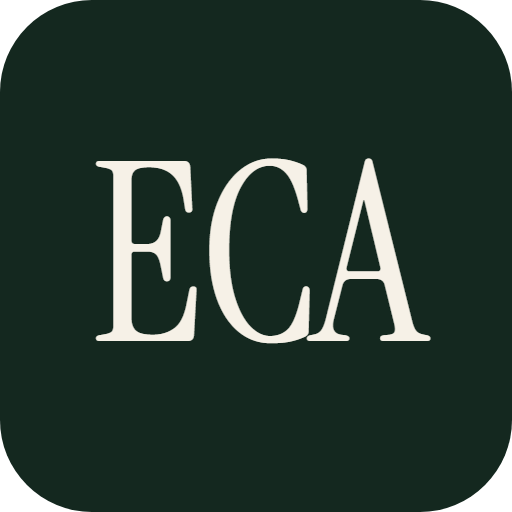
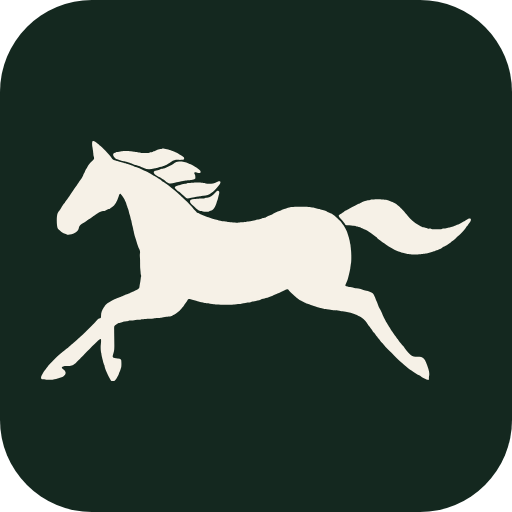
Horse brand mark replaces the ECA wordmark
The horse from the Canva logo was an embedded 694px bitmap, so it is
traced to a single vector path in brand-mark.tsx (currentColor).
Header and footer show horse + "Equine Professionals"; below 360px the
horse stands alone so "Log in" stays on one line.

scripts/build-brand.mjs writes fixed-colour SVG/PNG files to
public/brand/ and rebuilds the favicon and apple icon, replacing
build-icons.mjs.

Changed region(s): [[0.0625, 0.2812, 0.9062, 0.75], [0.9062, 0.4062, 0.9375, 0.4375]]

diff --git a/src/components/brand-mark.tsx b/src/components/brand-mark.tsx
@@ -1,0 +1,42 @@
+/**
+ * The galloping horse from the Equine Professionals Australia logo, without
+ * the lettering. Traced to a single vector path from the Canva artwork (the
+ * horse there is an embedded 694px bitmap), so it stays sharp at any size.
+ *
+ * Fills with `currentColor`, so it takes its lockup's tone: cream over a
+ * photograph or on ink, ink on cream, the section accent where one applies.
+ * Fixed-colour files for places outside the app (email, print, social) are
+ * in `public/brand/`, built by `scripts/build-brand.mjs` from this path.
+ *
+ * Decorative by default. Give it a `title` only when it stands alone with
+ * no text beside it.
+ */
+export const BRAND_MARK_VIEWBOX = "66 26 2686 1502";
+export const BRAND_MARK_RATIO = 2686 / 1502;
+export const BRAND_MARK_PATH =
+  "M 388 28C385 31 384 50 387 63C388 66 389 75 390 82C391 89 392 96 392 99C393 101 393 105 393 108C393 111 394 118 396 124C399 137 399 137 384 152C372 163 363 174 354 191C352 194 349 200 346 204C344 207 342 213 341 215C340 217 339 222 337 224C335 226 333 232 331 236C328 246 322 257 319 260C317 263 303 282 290 302C286 308 280 316 276 321C268 333 253 355 245 368C241 373 237 380 234 383C232 386 226 394 221 401C217 408 212 416 210 417C206 422 197 436 191 446C188 451 184 456 183 458C180 460 172 472 170 478C162 495 163 558 171 573C175 579 192 594 199 597C208 602 226 609 230 611C238 614 265 609 273 603C276 601 281 598 284 596C295 589 301 579 303 566C305 555 314 547 336 535C346 529 355 522 360 518C362 516 367 513 371 511C375 509 381 505 384 502C387 500 393 495 398 493C402 490 410 485 415 481C424 475 425 474 438 468C444 466 449 464 454 464C461 463 463 462 472 458C479 454 484 452 488 451C492 450 496 449 498 447C501 445 505 442 509 440C528 427 541 406 551 373C556 357 558 354 562 356C566 358 587 387 589 394C590 397 593 403 595 407C597 412 600 420 601 425C603 429 606 440 609 448C612 455 615 465 615 470C616 475 618 481 619 484C620 487 622 494 624 500C625 505 627 514 629 520C631 526 632 534 633 538C634 541 635 549 637 555C639 561 640 568 641 571C641 574 643 583 645 590C646 597 648 606 649 608C649 611 650 615 651 616C652 620 662 650 671 680C672 684 675 692 678 698C685 712 686 716 684 728C683 736 683 741 684 753C685 761 685 778 685 791C685 803 685 818 686 824C687 830 687 839 688 845C688 850 689 858 690 862C692 869 692 869 691 874C690 876 689 881 689 884C689 887 688 894 687 900C685 912 682 928 681 936C680 946 678 949 655 960C648 964 639 968 635 969C631 970 626 973 621 976C615 980 614 981 608 981C604 982 601 982 598 985C595 986 590 988 587 989C584 990 575 994 568 997C560 1001 552 1004 550 1005C546 1005 526 1014 510 1022C488 1033 470 1047 464 1057C464 1059 461 1063 458 1066C447 1081 441 1099 441 1117C441 1129 440 1132 435 1133C426 1134 419 1139 411 1151C406 1158 327 1238 319 1243C316 1245 311 1250 307 1254C293 1266 284 1275 281 1277C279 1278 273 1284 268 1288C262 1293 254 1300 250 1303C245 1307 240 1311 239 1313C237 1315 233 1319 230 1321C226 1323 220 1327 216 1331C211 1335 205 1340 202 1343C199 1345 196 1348 195 1349C193 1350 189 1353 185 1356C176 1362 118 1420 111 1430C109 1433 105 1438 103 1441C101 1443 98 1447 97 1449C96 1451 93 1455 91 1457C88 1460 85 1465 83 1468C81 1472 78 1477 76 1480C62 1502 63 1515 78 1514C84 1514 88 1514 92 1516C103 1519 144 1517 160 1512C167 1510 174 1508 175 1508C178 1508 201 1500 205 1497C225 1484 225 1464 204 1451C187 1440 197 1432 228 1432C255 1432 262 1429 282 1414C286 1411 290 1406 292 1404C294 1401 297 1399 297 1399C298 1398 301 1395 305 1391C308 1387 320 1374 333 1362C345 1350 372 1323 394 1301C445 1249 444 1249 439 1304C438 1317 439 1341 443 1354C443 1357 444 1363 445 1368C446 1372 448 1383 451 1392C453 1401 456 1411 457 1415C458 1419 459 1424 461 1426C462 1429 464 1433 464 1437C471 1462 499 1521 507 1526C514 1530 523 1528 529 1521C536 1514 553 1483 553 1478C553 1477 554 1474 556 1471C559 1466 562 1456 567 1440C569 1431 569 1397 566 1393C564 1389 559 1386 555 1386C553 1385 547 1384 541 1384C535 1383 528 1382 526 1381C512 1380 511 1376 518 1354C525 1333 525 1330 523 1219C523 1177 522 1182 536 1172C547 1164 550 1163 554 1163C556 1163 564 1161 572 1158C583 1154 589 1153 597 1152C602 1152 609 1150 611 1150C614 1149 619 1148 624 1148C629 1148 636 1147 640 1147C648 1145 665 1143 674 1143C678 1143 684 1143 687 1142C690 1141 697 1140 702 1140C707 1139 715 1138 719 1138C723 1137 732 1136 743 1136C754 1136 763 1135 769 1134C773 1134 784 1133 793 1132C803 1132 812 1131 817 1130C837 1126 846 1124 856 1124C859 1124 865 1123 868 1123C870 1122 875 1121 877 1120C879 1120 884 1118 886 1117C889 1115 894 1113 897 1112C909 1107 931 1089 941 1076C943 1072 948 1067 950 1064C953 1061 957 1056 959 1053C962 1049 967 1042 971 1037C975 1032 979 1026 980 1023C986 1012 992 1011 1011 1017C1018 1019 1028 1022 1035 1024C1041 1026 1047 1027 1050 1028C1052 1029 1057 1030 1061 1031C1064 1031 1069 1033 1072 1033C1074 1034 1079 1035 1083 1036C1086 1037 1091 1038 1094 1038C1096 1039 1100 1040 1103 1040C1107 1040 1115 1041 1122 1042C1130 1043 1140 1044 1146 1045C1152 1046 1161 1047 1166 1047C1182 1049 1267 1049 1279 1047C1284 1046 1294 1044 1302 1044C1309 1043 1317 1043 1319 1042C1321 1041 1327 1041 1333 1040C1339 1040 1345 1039 1350 1037C1354 1036 1359 1035 1363 1035C1366 1035 1371 1034 1375 1033C1378 1031 1386 1030 1391 1029C1406 1026 1428 1020 1437 1017C1442 1015 1449 1013 1454 1012C1459 1011 1466 1009 1470 1007C1473 1006 1480 1004 1484 1003C1503 997 1509 995 1513 993C1515 991 1520 989 1522 988C1525 987 1532 984 1537 982C1542 979 1546 977 1547 977C1549 977 1571 967 1588 958C1606 949 1609 949 1614 959C1616 963 1650 996 1656 999C1658 1001 1663 1005 1667 1008C1671 1011 1676 1015 1679 1017C1681 1018 1687 1021 1692 1024C1701 1030 1724 1041 1726 1041C1726 1041 1733 1043 1741 1046C1757 1053 1767 1056 1781 1060C1786 1062 1793 1064 1796 1065C1800 1067 1809 1069 1820 1071C1823 1072 1828 1073 1832 1074C1838 1076 1843 1077 1865 1079C1871 1080 1878 1081 1882 1082C1885 1083 1894 1084 1903 1084C1916 1085 1924 1086 1943 1090C1947 1090 1954 1091 1959 1091C1970 1092 1998 1098 2014 1103C2020 1106 2027 1108 2030 1109C2033 1109 2038 1112 2042 1114C2046 1116 2053 1120 2058 1122C2074 1131 2091 1146 2102 1163C2105 1168 2110 1175 2112 1178C2115 1180 2118 1185 2120 1188C2122 1191 2126 1197 2129 1201C2132 1204 2136 1210 2138 1214C2141 1218 2144 1222 2147 1224C2149 1226 2152 1231 2155 1235C2157 1238 2161 1243 2163 1246C2165 1248 2168 1251 2169 1253C2170 1255 2174 1259 2176 1262C2179 1265 2183 1270 2185 1273C2187 1276 2192 1281 2196 1286C2200 1290 2205 1296 2208 1300C2210 1303 2222 1315 2234 1328C2246 1340 2263 1356 2270 1364C2292 1386 2308 1401 2316 1408C2320 1411 2327 1416 2330 1420C2357 1444 2360 1446 2410 1480C2416 1484 2424 1488 2428 1490C2432 1491 2436 1494 2440 1497C2447 1504 2476 1518 2483 1518C2489 1519 2490 1516 2489 1508C2489 1503 2489 1500 2490 1495C2493 1484 2492 1468 2486 1450C2464 1380 2457 1373 2416 1373C2382 1373 2374 1367 2336 1317C2334 1314 2329 1307 2325 1304C2321 1300 2317 1295 2316 1293C2315 1291 2312 1287 2309 1285C2307 1282 2303 1278 2301 1274C2299 1271 2296 1267 2295 1265C2293 1263 2290 1259 2288 1256C2286 1253 2284 1249 2282 1247C2274 1237 2263 1222 2261 1217C2259 1215 2257 1211 2255 1209C2253 1206 2251 1202 2249 1200C2248 1197 2244 1191 2240 1186C2237 1181 2233 1174 2231 1171C2230 1168 2227 1163 2225 1160C2221 1154 2209 1131 2201 1114C2193 1094 2189 1086 2182 1074C2178 1067 2174 1057 2172 1052C2164 1031 2162 1026 2160 1023C2159 1021 2158 1017 2157 1014C2154 1003 2144 983 2138 977C2131 972 2108 962 2098 961C2094 961 2088 959 2085 958C2076 954 2052 948 2035 946C2029 945 2019 943 2013 941C2007 940 1999 938 1996 938C1990 937 1972 932 1969 931C1966 929 1967 926 1972 915C1981 893 1983 887 1985 878C1989 864 1995 840 1996 832C1997 828 1998 823 1998 821C1998 818 1999 812 2000 806C2001 799 2002 791 2003 787C2005 775 2005 717 2002 705C2002 700 2001 691 2000 685C2000 679 1999 672 1998 671C1998 670 1997 666 1996 662C1996 659 1994 651 1993 645C1991 638 1989 630 1988 626C1987 618 1977 590 1973 583C1968 571 1958 554 1954 550C1952 547 1949 543 1946 539C1942 532 1910 501 1898 492C1889 484 1878 478 1864 473C1859 471 1852 467 1849 465C1845 463 1840 461 1839 460C1837 460 1828 458 1819 455C1811 452 1800 450 1796 449C1793 448 1784 446 1777 444C1769 442 1763 441 1759 441C1755 441 1749 440 1744 439C1731 436 1637 437 1623 440C1607 443 1576 454 1567 458C1562 461 1557 463 1555 464C1544 467 1518 480 1510 485C1508 486 1504 488 1501 488C1493 490 1476 498 1471 502C1468 505 1465 506 1460 506C1457 507 1449 509 1442 511C1436 513 1426 516 1421 517C1415 518 1408 520 1404 521C1400 523 1393 524 1388 524C1384 525 1378 526 1375 527C1373 527 1367 528 1363 529C1358 529 1353 530 1351 531C1349 532 1339 532 1329 533C1314 533 1308 534 1303 535C1296 537 1269 537 1259 534C1255 534 1250 533 1247 533C1244 533 1238 532 1233 532C1228 531 1217 529 1210 528C1195 526 1177 522 1169 519C1166 518 1160 517 1156 516C1153 516 1147 514 1145 513C1143 513 1137 511 1133 510C1128 509 1121 506 1116 504C1111 503 1106 501 1105 501C1103 501 1100 500 1096 498C1093 496 1086 493 1081 491C1065 485 1057 482 1052 478C1049 476 1046 475 1045 475C1042 475 1038 472 1036 468C1034 466 1032 463 1030 461C1020 453 1017 450 1012 442C1006 432 969 395 953 382C948 378 940 371 937 367C926 356 911 342 896 330C888 324 879 318 876 315C856 299 848 293 832 282C826 278 819 274 818 272C816 271 811 267 807 265C803 262 795 257 791 254C786 251 779 247 775 245C770 243 765 240 761 237C758 235 750 230 742 226C735 222 727 218 725 217C708 208 672 192 658 188C654 187 649 185 645 183C638 180 595 165 591 165C590 165 583 163 575 160C568 158 557 155 552 154C546 152 539 150 536 149C534 148 529 147 526 146C518 144 514 141 504 127C494 111 445 61 431 52C429 50 423 45 419 42C405 28 394 23 388 28M822 74C822 75 817 75 812 76C800 77 796 79 787 84C783 86 778 88 776 89C774 90 768 92 763 94C759 95 754 97 752 97C750 97 746 98 743 99C734 101 692 102 687 100C684 99 680 98 676 98C672 97 667 96 664 95C661 95 653 94 646 93C638 92 630 91 626 90C616 88 577 88 569 90C566 91 559 92 554 93C548 94 543 95 541 95C540 96 534 98 529 99C518 103 516 104 517 115C517 123 531 138 541 140C544 141 550 143 554 145C557 147 562 148 565 148C567 149 570 150 573 151C575 151 579 152 582 152C586 152 593 154 609 159C624 164 631 166 638 169C642 171 654 175 664 178C674 181 684 185 687 186C689 188 693 189 696 190C698 191 703 193 708 195C727 204 747 205 772 198C776 197 781 196 783 196C786 196 793 194 799 192C805 190 812 188 814 187C817 187 822 185 827 183C832 182 837 180 837 180C842 180 862 168 880 156C895 145 905 143 934 144C954 144 955 144 957 142C961 139 961 133 958 128C951 121 914 98 900 93C896 92 889 89 883 87C865 79 826 71 822 74M919 155C908 158 902 160 894 168C890 171 877 178 859 187C845 194 832 199 825 200C821 201 812 203 806 205C799 207 790 210 785 211C780 212 775 214 774 215C765 219 773 233 787 241C790 242 795 245 797 247C800 248 805 251 809 253C813 255 818 259 820 261C822 263 827 265 830 267C832 268 836 270 839 272C862 293 870 295 902 287C935 279 946 277 955 276C959 275 968 274 973 273C978 272 986 271 990 271C993 271 998 271 1000 270C1002 269 1007 269 1012 268C1022 267 1028 264 1030 261C1031 255 1030 241 1027 236C1020 221 1022 219 1042 224C1059 228 1063 227 1063 218C1063 213 1061 210 1053 204C1049 202 1044 197 1041 195C1031 188 1024 184 1015 179C1010 177 1004 173 1001 172C997 170 991 167 988 166C984 165 978 162 974 161C970 159 964 158 960 157C955 156 949 155 946 154C938 153 932 153 919 155M1169 280C1167 281 1162 283 1159 285C1148 292 1115 295 1095 291C1090 290 1085 289 1083 289C1082 289 1077 288 1073 287C1063 284 1024 284 1013 287C1009 287 1000 288 993 289C985 289 978 290 976 291C974 292 969 293 965 293C957 294 937 299 934 301C933 302 928 303 922 304C906 308 902 310 902 318C902 321 919 338 926 342C929 343 934 347 938 351C950 362 959 370 964 374C967 376 969 378 970 379C974 386 982 386 1004 381C1035 374 1043 372 1052 372C1056 372 1061 371 1064 371C1067 370 1075 369 1081 368C1120 364 1139 351 1179 301C1193 283 1188 272 1169 280M1165 339C1163 340 1158 345 1154 350C1137 368 1122 378 1103 381C1097 382 1091 383 1090 384C1087 385 1081 385 1071 385C1062 385 1050 386 1044 387C1037 388 1029 389 1025 389C1003 392 997 394 997 402C997 410 998 412 1019 432C1043 456 1055 464 1066 464C1067 464 1072 465 1077 466C1089 470 1108 469 1115 466C1118 464 1122 463 1125 462C1142 460 1154 442 1165 404C1167 400 1168 395 1169 393C1170 391 1172 384 1173 377C1175 370 1177 362 1178 358C1183 342 1176 331 1165 339M2143 391C2139 391 2135 392 2133 392C2130 392 2126 393 2122 394C2118 394 2112 396 2108 396C2094 399 2074 406 2065 411C2060 414 2053 417 2050 418C2046 419 2041 422 2038 424C2035 426 2030 428 2027 430C2021 432 2002 442 1988 450C1982 454 1975 457 1973 459C1971 460 1963 465 1957 469C1951 473 1942 479 1937 482C1922 491 1922 493 1938 512C1944 518 1950 525 1952 528C1954 531 1957 535 1959 537C1961 539 1964 542 1964 544C1968 551 1971 552 1982 552C1993 552 2016 554 2022 556C2023 556 2029 558 2034 559C2038 561 2046 563 2050 563C2056 564 2059 564 2062 567C2067 570 2077 574 2084 577C2095 579 2133 603 2147 617C2149 618 2153 621 2155 623C2158 624 2163 629 2167 633C2171 637 2178 642 2181 645C2185 647 2190 651 2193 654C2202 660 2223 675 2229 678C2231 680 2237 683 2241 686C2264 700 2286 712 2299 716C2303 717 2308 719 2311 720C2314 722 2319 723 2323 724C2326 724 2335 726 2344 728C2352 730 2360 732 2361 732C2362 732 2367 733 2371 734C2376 735 2384 735 2404 735C2431 735 2436 735 2456 731C2459 730 2467 729 2472 728C2482 727 2500 723 2512 718C2517 716 2524 714 2527 713C2530 712 2535 710 2538 709C2540 707 2546 704 2551 703C2561 700 2566 698 2572 693C2575 690 2579 688 2581 687C2583 687 2587 684 2591 682C2594 680 2599 677 2603 675C2606 673 2611 670 2614 668C2616 666 2620 663 2623 661C2625 660 2629 657 2631 654C2634 652 2638 649 2641 648C2644 646 2649 642 2654 637C2658 632 2665 625 2670 621C2686 608 2709 584 2719 569C2721 565 2724 561 2726 559C2729 557 2731 554 2732 552C2733 549 2736 546 2738 543C2762 518 2752 500 2725 518C2722 520 2717 523 2715 524C2713 525 2708 528 2706 529C2698 535 2688 540 2679 544C2671 547 2660 551 2647 557C2643 559 2638 560 2634 561C2631 562 2626 563 2623 565C2616 567 2589 573 2582 573C2579 573 2574 574 2570 575C2560 578 2515 578 2505 575C2500 573 2497 573 2493 573C2489 574 2487 573 2481 572C2477 570 2472 569 2470 569C2469 569 2464 568 2461 567C2457 566 2454 565 2453 565C2451 565 2450 564 2427 552C2397 536 2377 519 2355 491C2349 485 2344 479 2343 478C2342 476 2339 472 2336 468C2330 460 2308 438 2298 430C2294 427 2289 423 2287 421C2285 419 2281 417 2279 416C2277 415 2272 412 2267 410C2257 404 2224 393 2218 393C2216 393 2208 392 2201 391C2185 389 2152 388 2143 391";
+
+export function BrandMark({
+  height = 28,
+  title,
+  className = "",
+}: {
+  height?: number;
+  title?: string;
+  className?: string;
+}) {
+  return (
+    <svg
+      viewBox={BRAND_MARK_VIEWBOX}
+      height={height}
+      width={Math.round(height * BRAND_MARK_RATIO)}
+      fill="currentColor"
+      className={`shrink-0 ${className}`}
+      role={title ? "img" : undefined}
+      aria-hidden={title ? undefined : true}
+    >
+      {title && <title>{title}</title>}
+      <path fillRule="evenodd" d={BRAND_MARK_PATH} />
+    </svg>
+  );
+}

diff --git a/src/components/wordmark.tsx b/src/components/wordmark.tsx
@@ -1,10 +1,12 @@
+import { BrandMark } from "@/components/brand-mark";
+
 /**
- * The brand mark: "ECA" set in Instrument Serif, weight 400, tight
- * letter-spacing. 26px in the phone header, 30px on desktop, 40–48px in the
- * footer. Inherits `currentColor` so it takes its lockup's tone — cream over
- * a photograph or on ink, hunter green on cream. Always rendered with an
- * accessible name on the enclosing link, since three letters alone don't
- * carry the business name.
+ * The brand lockup: the horse mark beside "Equine Professionals" set in
+ * Instrument Serif. The mark sits a little taller than the cap height so the
+ * horse reads at header size. Inherits `currentColor` so it takes its
+ * lockup's tone — cream over a photograph or on ink, ink on cream. Always
+ * rendered inside a link with an accessible name, since the mark and text
+ * are aria-hidden here.
  */
 export function Wordmark({
   size = 30,
@@ -14,12 +16,18 @@ export function Wordmark({
   className?: string;
 }) {
   return (
-    <span
-      aria-hidden
-      className={`font-display font-normal leading-none ${className}`}
-      style={{ fontSize: size, letterSpacing: size >= 40 ? "-0.02em" : "-0.01em" }}
-    >
-      ECA
+    // Display lives on the inner span so callers can pass `hidden md:block`
+    // without two display utilities fighting on one element.
+    <span aria-hidden className={className} style={{ fontSize: size }}>
+      <span className="inline-flex items-center gap-[0.34em]">
+        <BrandMark height={Math.round(size * 1.05)} className="-mt-[0.08em]" />
+        <span
+          className="whitespace-nowrap font-display font-normal leading-none"
+          style={{ letterSpacing: size >= 40 ? "-0.02em" : "-0.01em" }}
+        >
+          Equine Professionals
+        </span>
+      </span>
     </span>
   );
 }

diff --git a/src/components/site-footer.tsx b/src/components/site-footer.tsx
@@ -41,12 +41,12 @@ export function SiteFooter() {
       <div className="mx-auto max-w-[1184px] px-[18px] pt-11 md:px-12 md:pt-16">
         <div className="grid grid-cols-1 gap-7 md:grid-cols-[2fr_1fr_1fr_1fr] md:gap-10">
           <div>
-            <Link href="/" aria-label="Equestrian Coaches Australia — home" className="inline-block">
-              <Wordmark size={40} className="md:hidden" />
-              <Wordmark size={48} className="hidden md:inline" />
+            <Link href="/" aria-label="Equine Professionals Australia, home" className="inline-block">
+              <Wordmark size={30} className="md:hidden" />
+              <Wordmark size={36} className="hidden md:block" />
             </Link>
             <p className="mt-2.5 max-w-[280px] text-[14px] leading-[1.5] text-ink-fg/70 md:mt-3 md:max-w-[320px] md:text-[15px]">
-              Equestrian Coaches Australia. The coach who teaches what you ride, wherever you are.
+              Equine Professionals Australia. The coach who teaches what you ride, wherever you are.
             </p>
           </div>
           <div className="grid grid-cols-2 gap-5 md:contents">
@@ -68,7 +68,7 @@ export function SiteFooter() {
           </div>
         </div>
         <div className="mt-8 border-t border-ink-fg/18 pb-7 pt-4 text-[12px] text-ink-fg/50 md:mt-10 md:border-0 md:pt-0 md:text-[13px]">
-          © {year} Equestrian Coaches Australia
+          © {year} Equine Professionals Australia
         </div>
       </div>
     </footer>

diff --git a/src/components/site-header.tsx b/src/components/site-header.tsx
@@ -3,6 +3,7 @@
 import Link from "next/link";
 import { usePathname, useSearchParams } from "next/navigation";
 import { Suspense, useEffect, useState } from "react";
+import { BrandMark } from "@/components/brand-mark";
 import { Wordmark } from "@/components/wordmark";
 import { parseState } from "@/lib/au-states";
 import { SearchChips } from "@/components/search-chips";
@@ -200,14 +201,16 @@ export function SiteHeader() {
         <Link
           href="/"
           className="flex items-baseline gap-3.5"
-          aria-label="Equestrian Coaches Australia — home"
+          aria-label="Equine Professionals Australia, home"
           onClick={close}
         >
-          <Wordmark size={26} className="md:hidden" />
-          <Wordmark size={30} className="hidden md:inline" />
+          {/* Below 360px the words and "Log in" can't share the bar, so the horse stands alone. */}
+          <BrandMark height={24} className="hidden max-[359px]:block" />
+          <Wordmark size={21} className="max-[359px]:hidden md:hidden" />
+          <Wordmark size={26} className="hidden md:block" />
           {!isSearch && !coachProfile && (
             <span className="site-header__muted hidden text-[12px] font-medium uppercase tracking-[0.16em] lg:inline">
-              {isDashboard ? "Coach dashboard" : "Equestrian Coaches Australia"}
+              {isDashboard ? "Coach dashboard" : "Australia"}
             </span>
           )}
         </Link>
